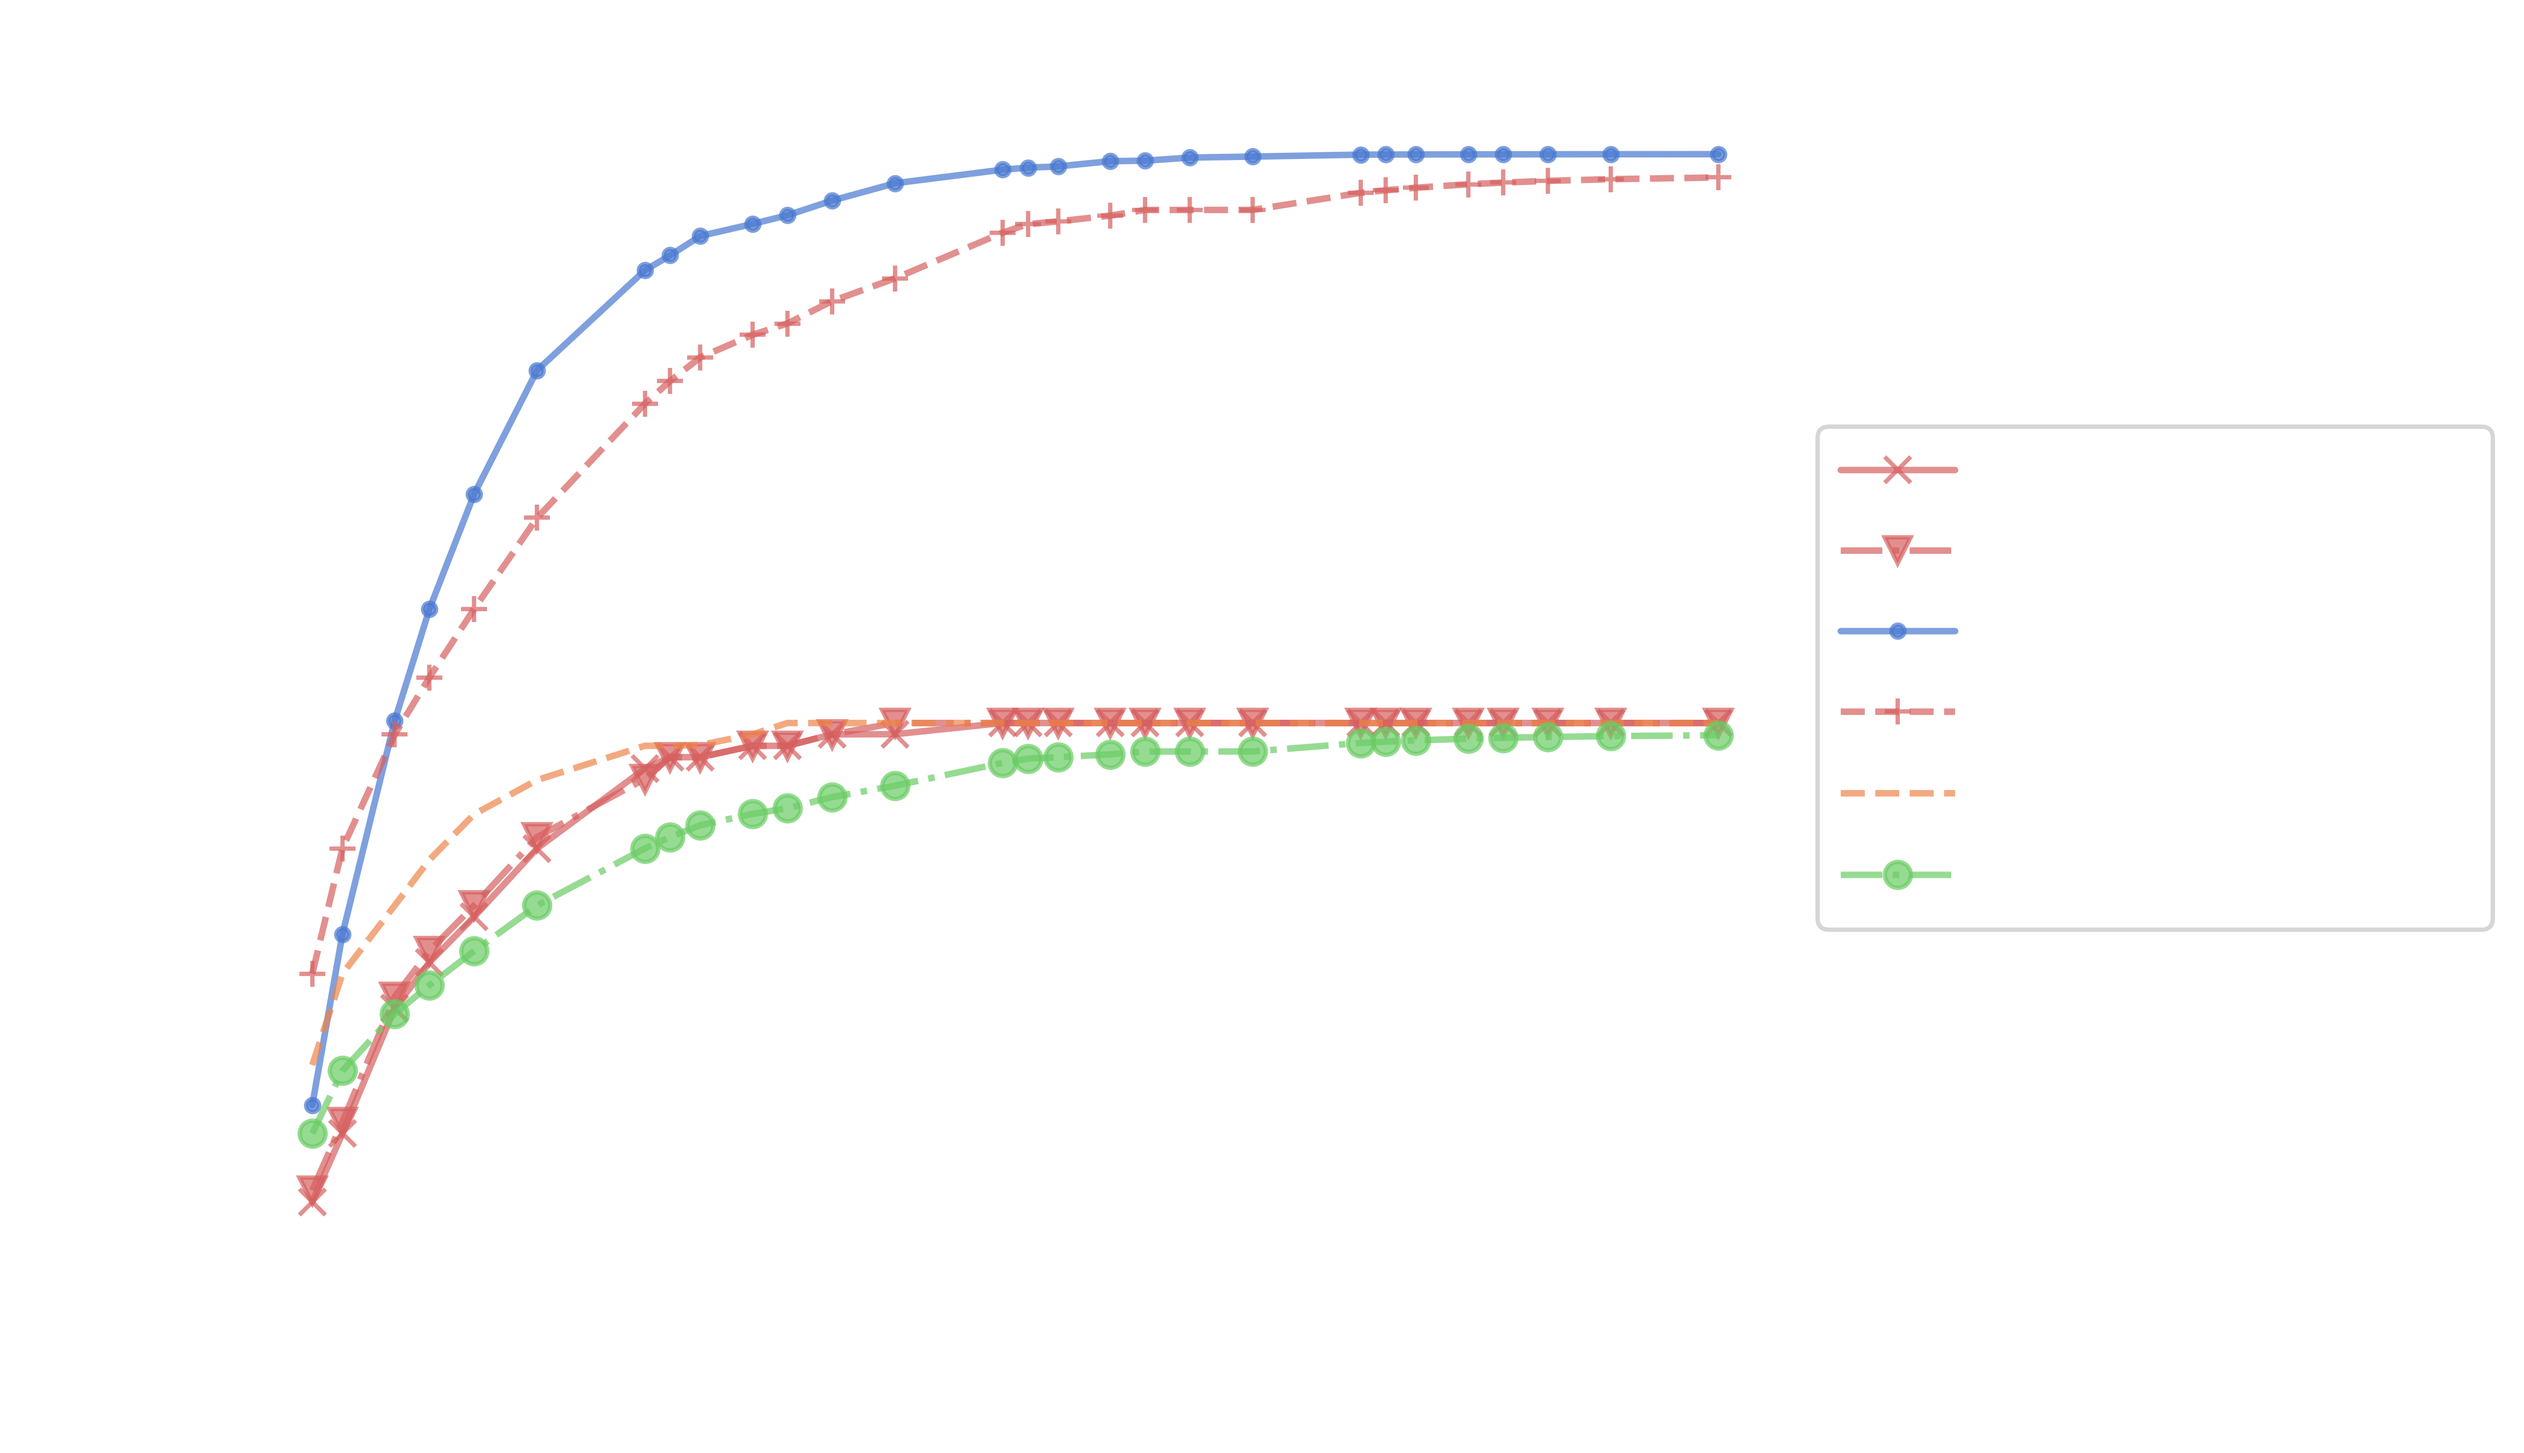
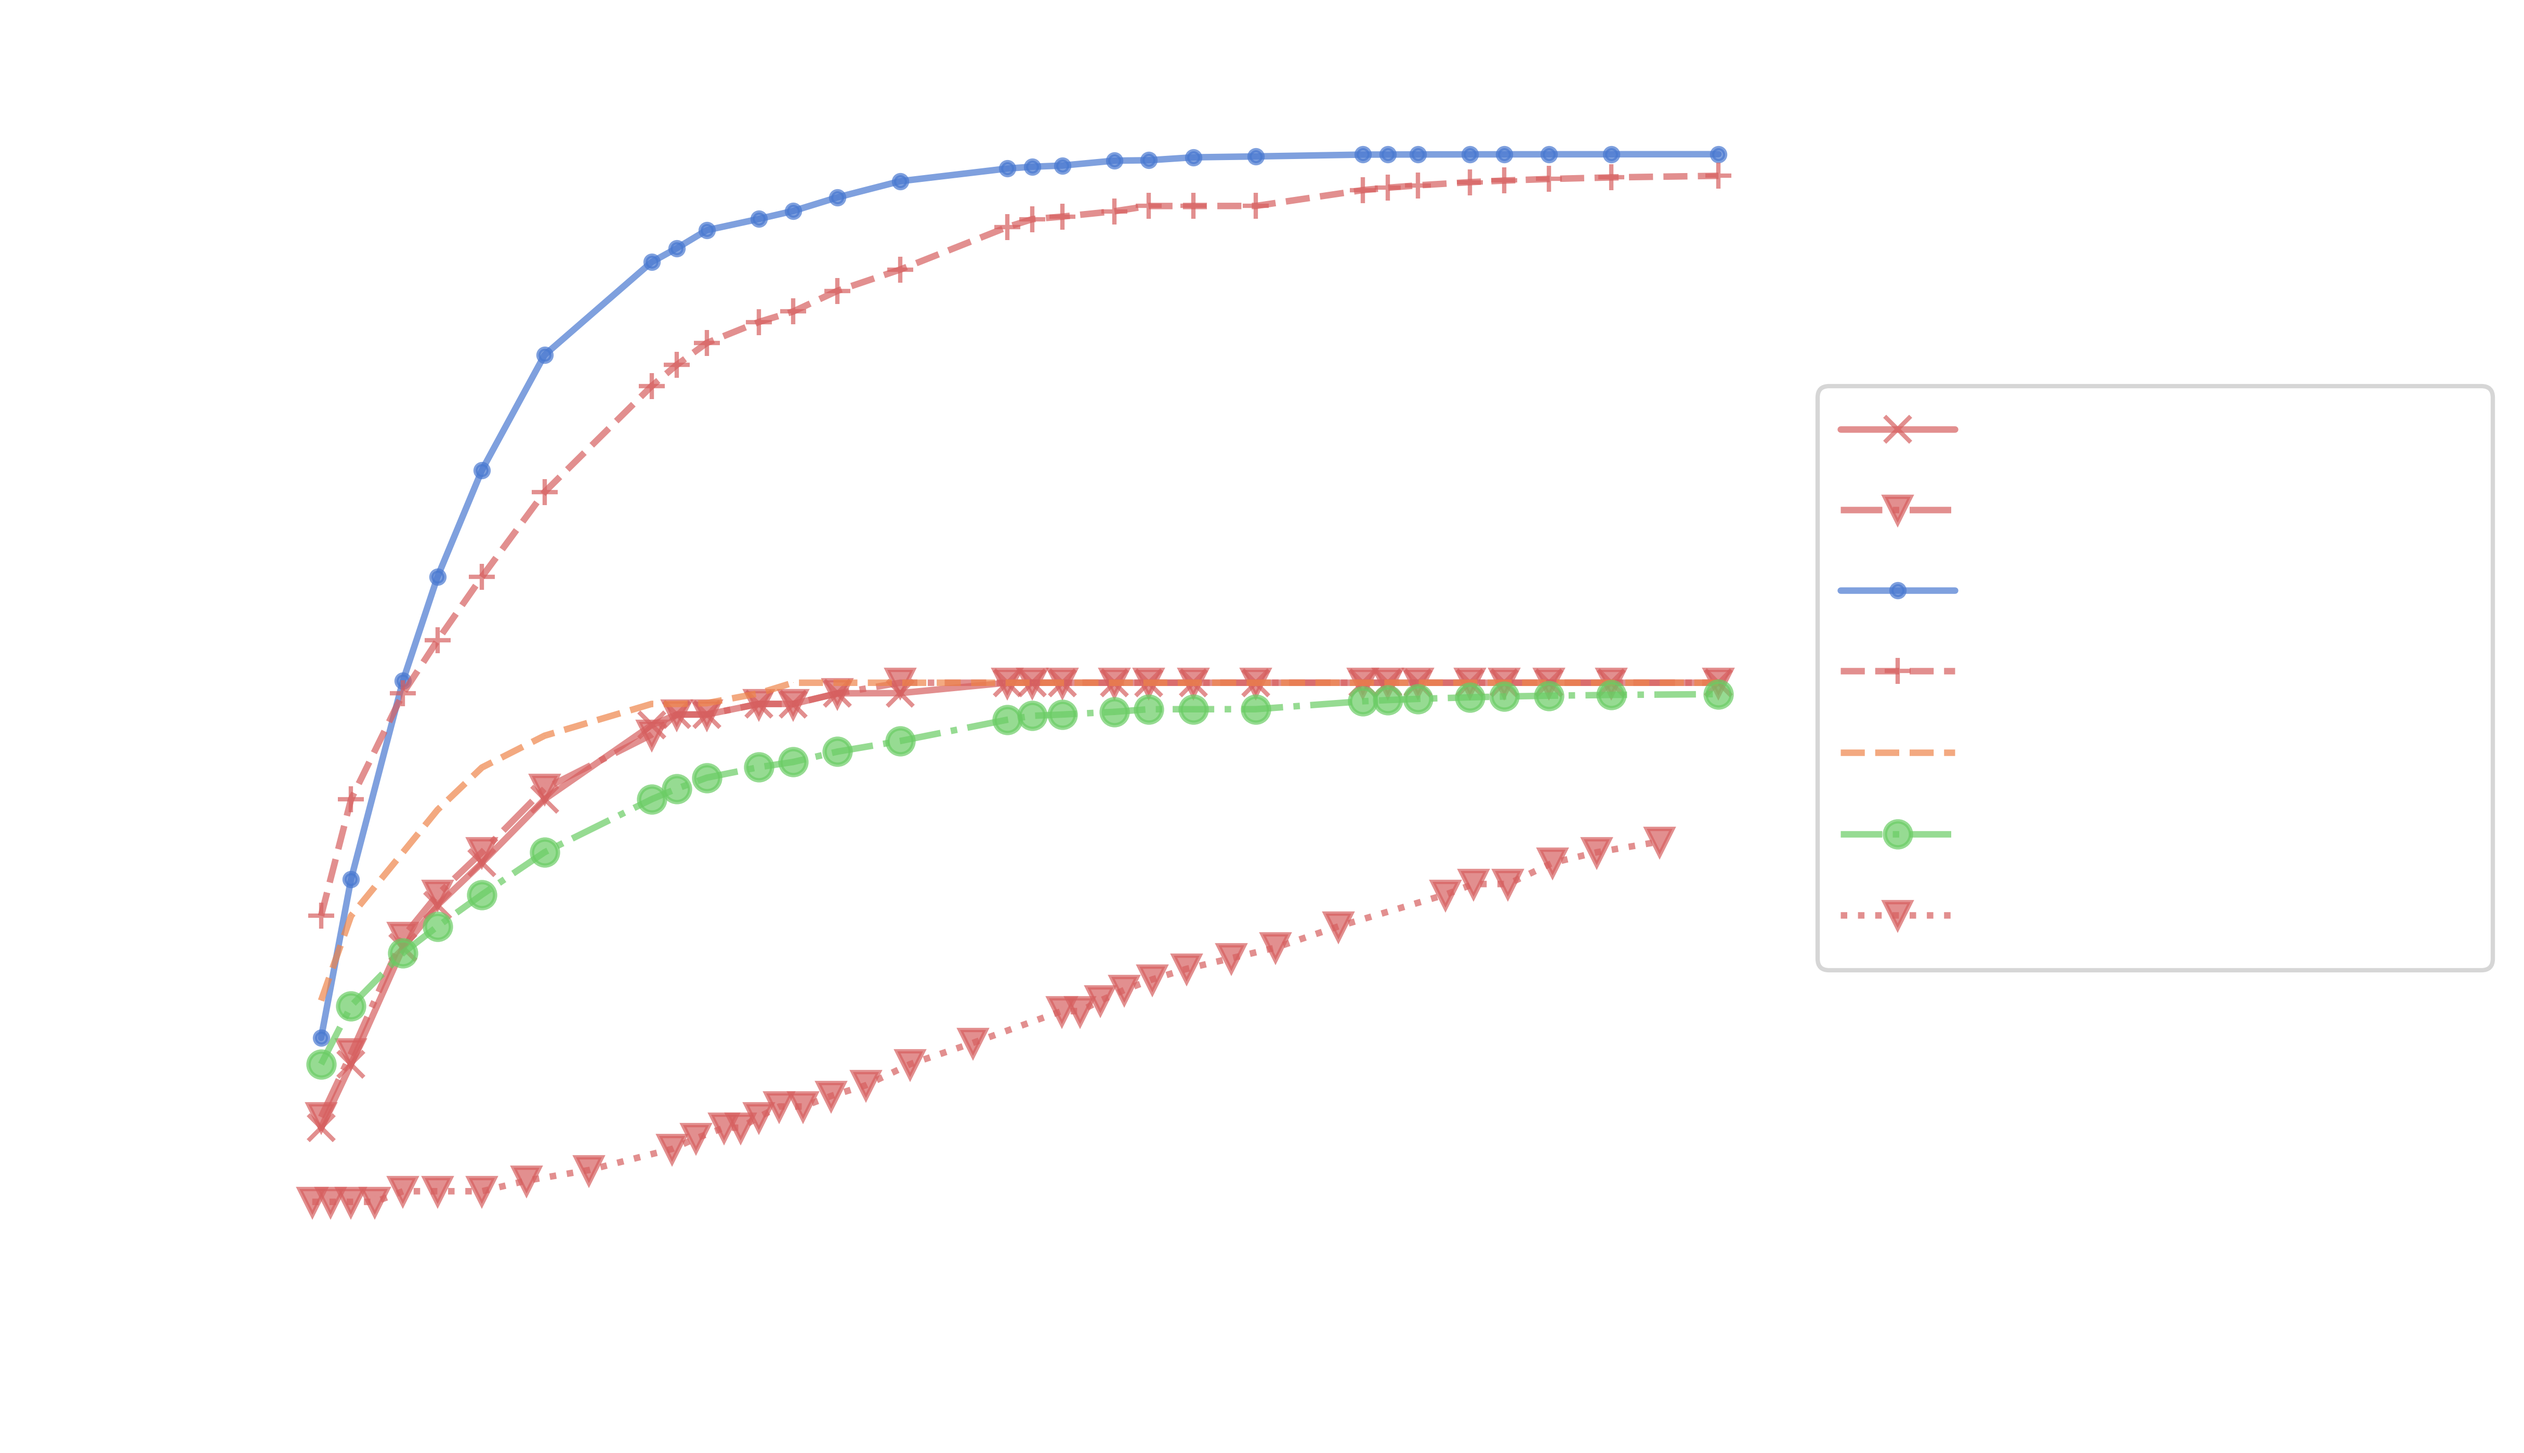
Add .hgrm format support for hdrhistogram percentiles

diff --git a/prettypercentiles.py b/prettypercentiles.py
@@ -7,7 +7,7 @@ import seaborn as sns
 import itertools
 import importlib
 import sys
-from collections import defaultdict
+from hdr_parser import parse_hgrm
 from customfunctions import *
 
 
@@ -138,35 +138,51 @@ def main(args):
     # Dict where key = label, value = percentiles
     perc_map = {}
 
-    # Individual columns
-    for label, value in label_map.items():
-        column = handle_preprocessing(value)
-        perc_map[label] = get_percentiles(column, np_sample_points)
+    percentage_map = {}
 
-    # Combined columns
-    for label, pair in combined_columns.items():
-        # Get list of latencies to combine
-        columns_list = [handle_preprocessing(value) for value in pair[1]]
-        # Combine the latencies and get percentiles
-        func = pair[0]
-        perc_map[label] = get_percentiles(
-            combine(func, *columns_list), np_sample_points)
+    try:
+        # Individual columns
+        for label, value in label_map.items():
+            column = handle_preprocessing(value)
+            perc_map[label] = get_percentiles(column, np_sample_points)
+            percentage_map[label] = np_sample_points
+
+        # Combined columns
+        for label, pair in combined_columns.items():
+            # Get list of latencies to combine
+            columns_list = [handle_preprocessing(value) for value in pair[1]]
+            # Combine the latencies and get percentiles
+            func = pair[0]
+            perc_map[label] = get_percentiles(
+                combine(func, *columns_list), np_sample_points)
+            percentage_map[label] = np_sample_points
+    except:
+        pass
+
+    try:
+        hgrm_columns = config.hgrm_map
+        for label, hgrm_filename in hgrm_columns.items():
+            (latencies, percentiles) = parse_hgrm(hgrm_filename)
+            perc_map[label] = latencies
+            percentage_map[label] = percentiles
+    except:
+        pass
 
     # Plot the percentiles
-    plot_percentiles_multiple(plot_title, perc_map, np_sample_points, filename, num_intervals,
+    plot_percentiles_multiple(plot_title, perc_map, percentage_map, filename, num_intervals,
                               y_log, line_formats, x_axis_label, y_axis_label, font_scale, dark_mode)
 
     return
 
 
-def plot_percentiles_multiple(title, percentiles_map, percentages, filename, num_intervals, y_log, line_formats, x_axis_label, y_axis_label, font_scale, dark_mode):
+def plot_percentiles_multiple(title, percentiles_map, percentages_map, filename, num_intervals, y_log, line_formats, x_axis_label, y_axis_label, font_scale, dark_mode):
     """
     Plot function for the given percentiles
     Adapted from https://stackoverflow.com/questions/42072734/percentile-distribution-graph
     Arguments:
         title: Title of the plot
         percentiles_map: Dict where key is label and value are percentiles
-        percentages: The percentages used
+        percentages_map: Dict where key is label and value list of percentages used
         filename: The destination file name of the output image
         num_intervals: The number of intervals to display
         y_log: True will display y axis on log scale, False will use linear scale
@@ -199,8 +215,6 @@ def plot_percentiles_multiple(title, percentiles_map, percentages, filename, num
         clear_bkgd = {'axes.facecolor': 'none', 'figure.facecolor': 'none'}
         sns.set(style='ticks', font_scale=font_scale,
                 palette="muted", rc=clear_bkgd)
-
-    x = percentages
 
     # Increase by one to get last xtick included as well
     num_intervals += 1
@@ -237,10 +251,10 @@ def plot_percentiles_multiple(title, percentiles_map, percentages, filename, num
             marker = line_formats[key][0]
             linestyle = line_formats[key][1]
             color = line_formats[key][2]
-            ax.plot([100.0 - v for v in x], percentiles_map[key], marker=marker,
+            ax.plot([100.0 - v for v in percentages_map[key]], percentiles_map[key], marker=marker,
                     linestyle=linestyle, color=color, label=key, alpha=0.7)
         else:
-            ax.plot([100.0 - v for v in x], percentiles_map[key], marker=next(markers),
+            ax.plot([100.0 - v for v in percentages_map[key]], percentiles_map[key], marker=next(markers),
                     linestyle=next(linestyles), label=key, alpha=0.7)
 
     # Grid lines

diff --git a/hdr_parser.py b/hdr_parser.py
@@ -1,0 +1,89 @@
+import os
+import re
+import sys
+
+
+def get_9s(percentile):
+    """
+    Method that gets the amount of 9s in a percentile
+    Args:
+        percentile: The percentile to get the amount of 9s for
+    Returns:
+        The amount of 9s of the percentile, so 0.4->0, 0.92->1, 0.994->2, etc.
+    """
+    counter = 1
+    # Limit to 20 nines, probably won't ever see higher amount than this due to exponential growth
+    while counter < 20:
+        if percentile + 1/(10 ** counter) < 1.0:
+            break
+        counter += 1
+
+    return counter - 1
+
+
+def check_skip(previous, percentile, slack):
+    """
+    Method that checks if a percentile should be skipped
+    Args:
+        previous: Previous percentile
+        percentile: Percentile to skip or not
+        slack: Amount of distance between the percentiles (0-1)
+    Returns:
+        True if percentile is valid, False if it should be skipped
+    """
+    prev_9s = get_9s(previous)
+    # print(f"prev: {previous}, perc: {percentile}, prev_9s: {prev_9s}")
+    return percentile > previous + slack * (1 / (10 ** (prev_9s + 1)))
+
+
+def parse_hgrm(filename, lower=0.01, upper=0.99991):
+    """
+    Method that parses a .hgrm file
+    Args:
+        filename: Name of the file to parse
+        lower: Lower percentile limit (range 0-1)
+        upper: Upper percentile limit (range 0-1)
+        slack: Minimum distance between 2 consecutive percentiles (range 0-1)
+    Returns:
+        Tuple of 1. list of latencies, 2. list of corresponding percentiles
+    """
+    latencies = []
+    percentiles = []
+
+    # Groups:
+    # 1. Latency (format float xy.00000)
+    # 2. Percentile (format: float 0.90xyz)
+    # 3. Count (format: integer)
+    pattern = '^(?: )+([0-9]+\.[0-9]+)(?: )([0-1]\.[0-9]+) +([0-9]+)(?: )*'
+
+    # Previous percentile
+    previous = 0.0
+
+    for line in open(filename, 'r'):
+        line = line.rstrip('\r\n')  # remove newline
+        result = re.match(pattern, line)
+        if result:
+            # Got match
+            (latency, percentile, count) = result.group(1, 2, 3)
+            f_percentile = float(percentile)
+            if (f_percentile > lower and f_percentile < upper and check_skip(previous, f_percentile, 0.5)):
+                previous = f_percentile
+                latencies.append(float(latency))
+                percentiles.append(f_percentile * 100.0)
+
+    return latencies, percentiles
+
+
+def main(args):
+    if len(args) > 0:
+        parse_hgrm(args[0])
+    else:
+        print(os.getcwd())
+        file = "benchmarks/nexmark/Q06/AWS/3-node/9-million/snapshot-9M"
+        l, p = parse_hgrm(file)
+        print(l)
+        print(p)
+
+
+if __name__ == "__main__":
+    main(sys.argv[1:])

diff --git a/configs/example_config.py b/configs/example_config.py
@@ -71,6 +71,14 @@ millisecond_times = (other_source_csv, 'nanosecond_times',
                      convert_nanos_to_millis)
 
 """
+Dict: hgrm_map
+Where: Key = label in plot
+       Value = File name of .hgrm file (output from hdrhistogram tool)
+"""
+hgrm_map = {}
+hgrm_map['hgrm latencies'] = "data/hdrhistogram_example.hgrm"
+
+"""
 Dict: label_map
 Where: Key = label in plot
        Value = tuple of (csv filename, column, and optionally preprocessing function)
@@ -86,7 +94,9 @@ label_map['Millisecond times'] = millisecond_times
 Dict: combined_columns
 Where: Key = label of combined value in plot
        Value = tuple of (combination function, list of tuples of (csv filename, column, and optionally preprocessing function))
-Note that the length of the columns in the list MUST be equal in order to properly combine them
+NOTE: 
+- The length of the columns in the list MUST be equal in order to properly combine them
+- The .hgrm files are not supported for combining as they already contain the percentiles!
 """
 combined_columns = {}
 # Combine column1 and column2 by summing their elements at the same row, label will be 'column 1+2'

diff --git a/configs/example_config_dark.py b/configs/example_config_dark.py
@@ -71,6 +71,14 @@ millisecond_times = (other_source_csv, 'nanosecond_times',
                      convert_nanos_to_millis)
 
 """
+Dict: hgrm_map
+Where: Key = label in plot
+       Value = File name of .hgrm file (output from hdrhistogram tool)
+"""
+hgrm_map = {}
+hgrm_map['hgrm latencies'] = "data/hdrhistogram_example.hgrm"
+
+"""
 Dict: label_map
 Where: Key = label in plot
        Value = tuple of (csv filename, column, and optionally preprocessing function)
